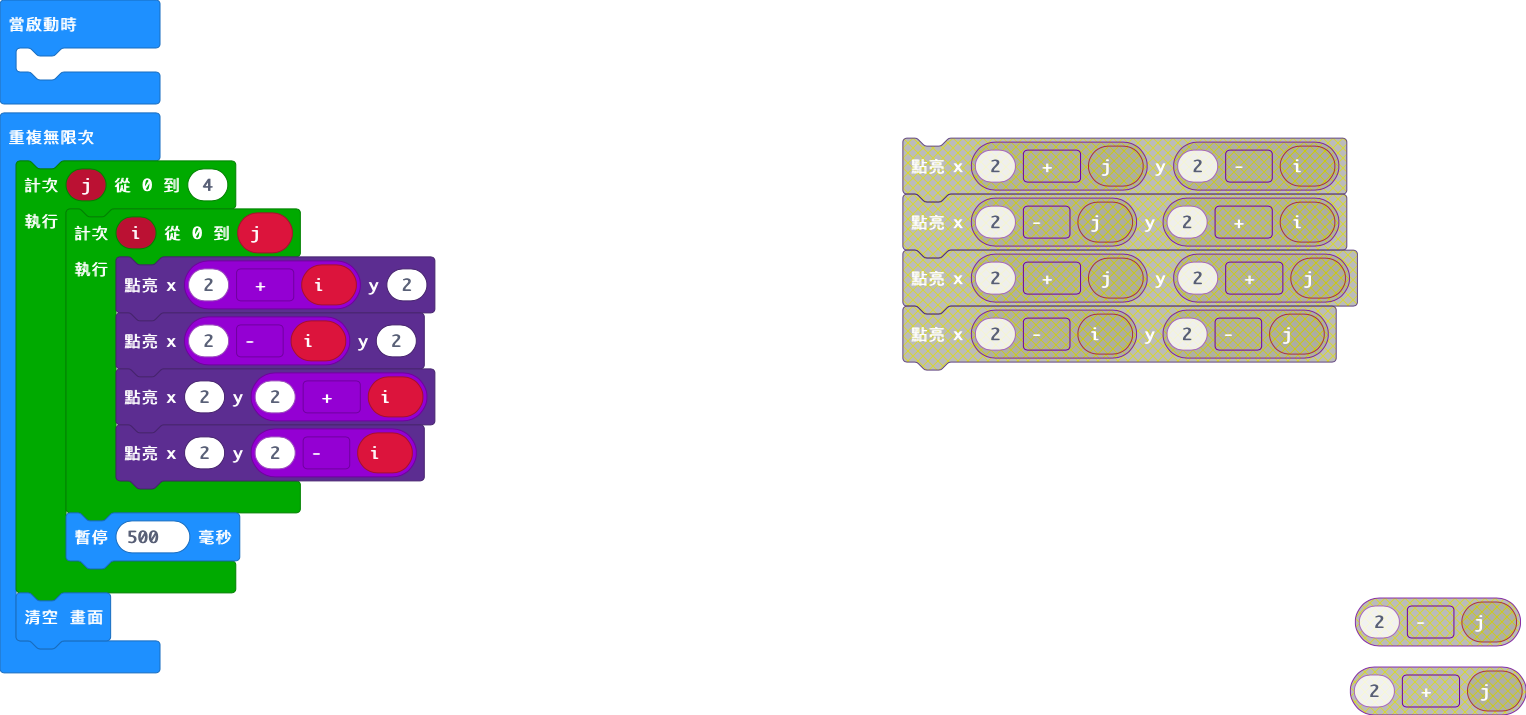
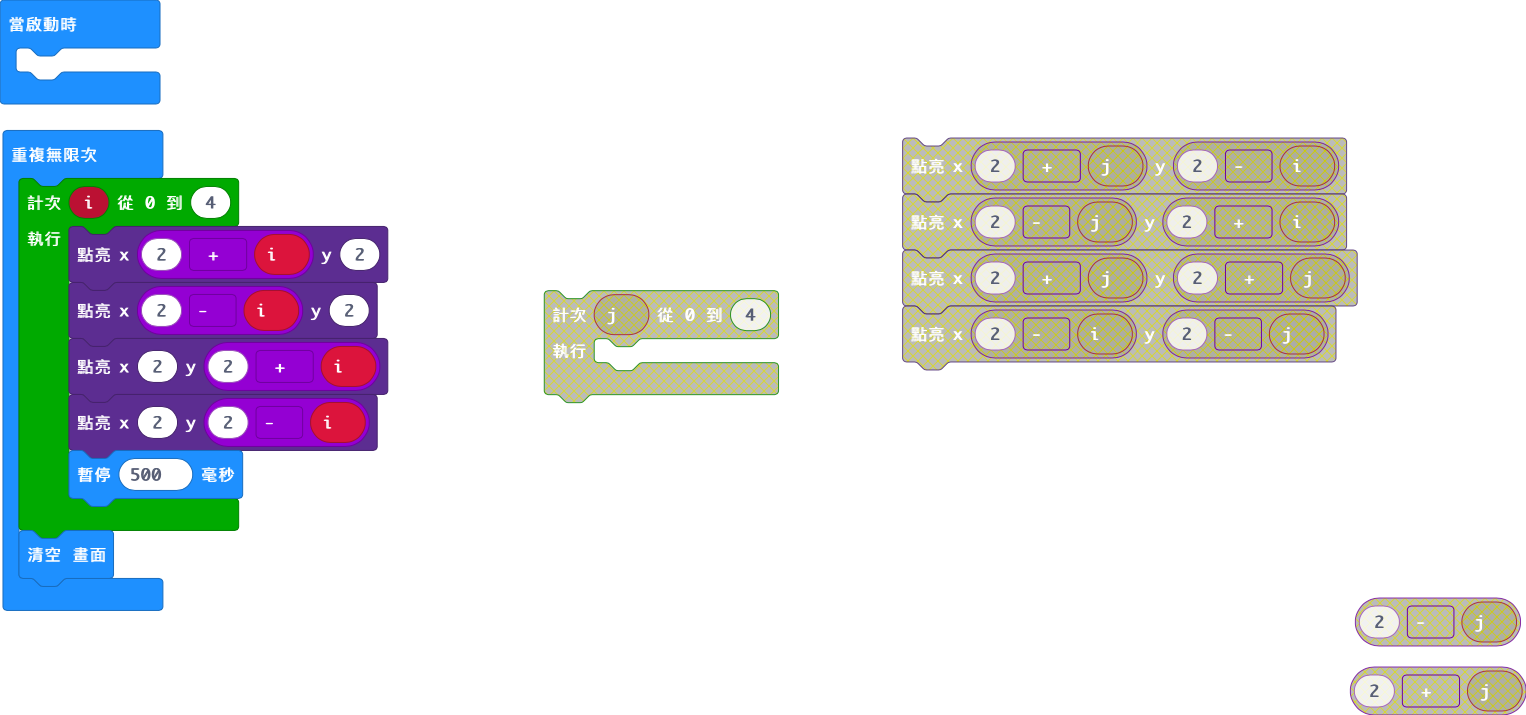
Update main.blocks, main.ts

Changed region(s): [[0.0, 0.1538, 0.308, 0.9538], [0.7084, 0.1846, 0.8932, 0.5231], [0.3388, 0.4, 0.5236, 0.5846]]

diff --git a/main.ts b/main.ts
@@ -1,11 +1,9 @@
 basic.forever(function () {
-    for (let j = 0; j <= 4; j++) {
-        for (let i = 0; i <= j; i++) {
-            led.plot(2 + i, 2)
-            led.plot(2 - i, 2)
-            led.plot(2, 2 + i)
-            led.plot(2, 2 - i)
-        }
+    for (let i = 0; i <= 4; i++) {
+        led.plot(2 + i, 2)
+        led.plot(2 - i, 2)
+        led.plot(2, 2 + i)
+        led.plot(2, 2 - i)
         basic.pause(500)
     }
     basic.clearScreen()
